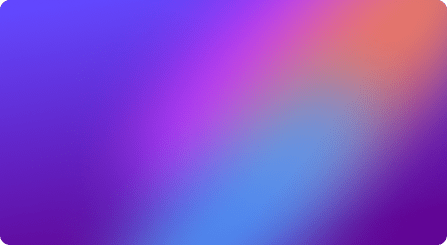
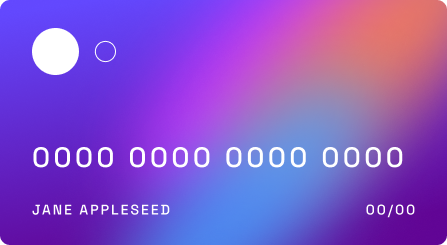
Не стилізована форма

diff --git a/style.css b/style.css
@@ -1,3 +1,18 @@
+:root {
+  --white: #ffffff;
+  --light_grayish_violet: #dedddf;
+  --dark_grayish_violet: #8e8593;
+  --very_dark_violet: #21092f;
+}
+@font-face {
+  font-display: swap; /* Check https://developer.mozilla.org/en-US/docs/Web/CSS/@font-face/font-display for other options. */
+  font-family: 'Space Grotesk';
+  font-style: normal;
+  font-weight: 500;
+  src: url('./fonts/space-grotesk-v16-latin-500.woff2') format('woff2'),
+    /* Chrome 36+, Opera 23+, Firefox 39+, Safari 12+, iOS 10+ */
+      url('./fonts/space-grotesk-v16-latin-500.ttf') format('truetype'); /* Chrome 4+, Firefox 3.5+, IE 9+, Safari 3.1+, iOS 4.2+, Android Browser 2.2+ */
+}
 html {
   display: flex;
   justify-content: center;
@@ -5,34 +20,97 @@ html {
 }
 
 body {
+  font-family: 'Space Grotesk', sans-serif;
+  font-style: normal;
+  font-weight: 500;
+  line-height: normal;
   max-width: 1440px;
   height: 100vh;
-  background-color: aqua;
+  background-color: var(--white);
+  background-image: url(./images/bg-main-desktop.png);
+  background-repeat: no-repeat;
+  background-size: 34% 100%;
   display: flex;
   justify-content: center;
   align-items: center;
 }
 article {
-  background-color: burlywood;
   display: flex;
   flex-wrap: wrap;
+  gap: 64px;
   justify-content: space-between;
-  min-width: 1112px;
-  width: 100%;
+  max-width: 1112px;
   min-height: 527px;
-  /* flex-shrink: 1; */
   margin-inline: 10px;
   .cards-foto {
     width: 541px;
-  }
-  .form {
-    width: 507px;
-    display: flex;
-    justify-content: center;
-    align-items: center;
-    form {
-        width: 381px;
-        height: 352px;
+    position: relative;
+    img {
+      display: inline-block;
+      position: absolute;
+      top: 0;
+      left: 0;
+    }
+    img + img {
+      display: inline-block;
+      position: absolute;
+      bottom: 0;
+      right: 0;
     }
   }
+}
+
+.form {
+  width: 507px;
+  display: flex;
+  justify-content: center;
+  align-items: center;
+  form {
+    width: 381px;
+    height: 352px;
+    display: flex;
+    flex-direction: column;
+    div {
+      margin-block-end: 9px;
+    }
+    div + div {
+      margin-block-end: 40px;
+    }
+  }
+}
+label {
+  color: var(--very_dark_violet);
+  font-size: 12px;
+  letter-spacing: 2px;
+  text-transform: uppercase;
+  margin-block-end: 9px;
+}
+::-webkit-input-placeholder {
+  color: var(--very_dark_violet);
+  font-size: 18px;
+  opacity: 0.25;
+}
+input[name='name'],
+input[name='cardNunber'] {
+  margin-block-end: 26px;
+}
+
+input[name='month'],
+input[name='year'] {
+  width: 80px;
+  height: 45px;
+  margin-inline-end: 7px;
+}
+input[name='cvc'] {
+  width: 191px;
+  height: 45px;
+  margin-inline-start: 7px;
+}
+button {
+  width: 381px;
+  height: 53px;
+  border-radius: 8px;
+  background: var(--very_dark_violet);
+  color: var(--white, #fff);
+  font-size: 18px;
 }

diff --git a/index.html b/index.html
@@ -1,44 +1,55 @@
 <!DOCTYPE html>
 <html lang="en">
-<head>
-  <meta charset="UTF-8">
-  <meta name="viewport" content="width=device-width, initial-scale=1.0"> <!-- displays site properly based on user's device -->
-<link rel="stylesheet" href="./reset.css">
-<link rel="stylesheet" href="./style.css">
-  
-  <title>Juliia Pershina | Interactive card details form</title>
-  
-</head>
-<body>
+  <head>
+    <meta charset="UTF-8" />
+    <meta name="viewport" content="width=device-width, initial-scale=1.0" />
+    <!-- displays site properly based on user's device -->
+    <link rel="stylesheet" href="./reset.css" />
+    <link rel="stylesheet" href="./style.css" />
 
-  <article>
-    <div class="cards-foto"></div>
-  
-    <div class="form">
-      <form>
-        Cardholder Name
-        e.g. Jane Appleseed
-      
-        Card Number
-        e.g. 1234 5678 9123 0000
-      
-        Exp. Date (MM/YY)
-        MM
-        YY
-      
-        CVC
-        e.g. 123
-      
-        Confirm
-      </form>
-    </div>
-  </article>
+    <title>Juliia Pershina | Interactive card details form</title>
+  </head>
+  <body>
+    <article>
+      <div class="cards-foto">
+        <img src="./images/bg-card-front.png" width="447px" height="245px" alt="" />
+        <img src="./images/bg-card-back.png" width="447px" height="245px" alt=""  />
 
-  <!-- Completed state start -->
+      </div>
 
-  <!-- Thank you!
+      <div class="form">
+        <form>
+          <label for="name"> Cardholder Name </label>
+          <input type="text" name="name" placeholder="e.g. Jane Appleseed" />
+          <label for="cardNunber"> Card Number </label>
+          <input
+            type="number"
+            name="cardNunber"
+            id=""
+            placeholder="e.g. 1234 5678 9123 0000"
+          />
+          
+            <div>
+              <label for="month"> Exp. Date (MM/YY) </label>
+              <label for="cvc">
+                CVC
+              </label>
+            </div>
+            <div>
+              <input type="number" name="month" id="" placeholder="MM" />
+              <input type="number" name="year" id="" placeholder="YY" />
+              <input type="number" name="cvc" id="" placeholder="e.g. 123" />
+            </div>
+          
+          <button type="button">Confirm</button>
+        </form>
+      </div>
+    </article>
+
+    <!-- Completed state start -->
+
+    <!-- Thank you!
   We've added your card details
   Continue -->
-  
-</body>
+  </body>
 </html>
